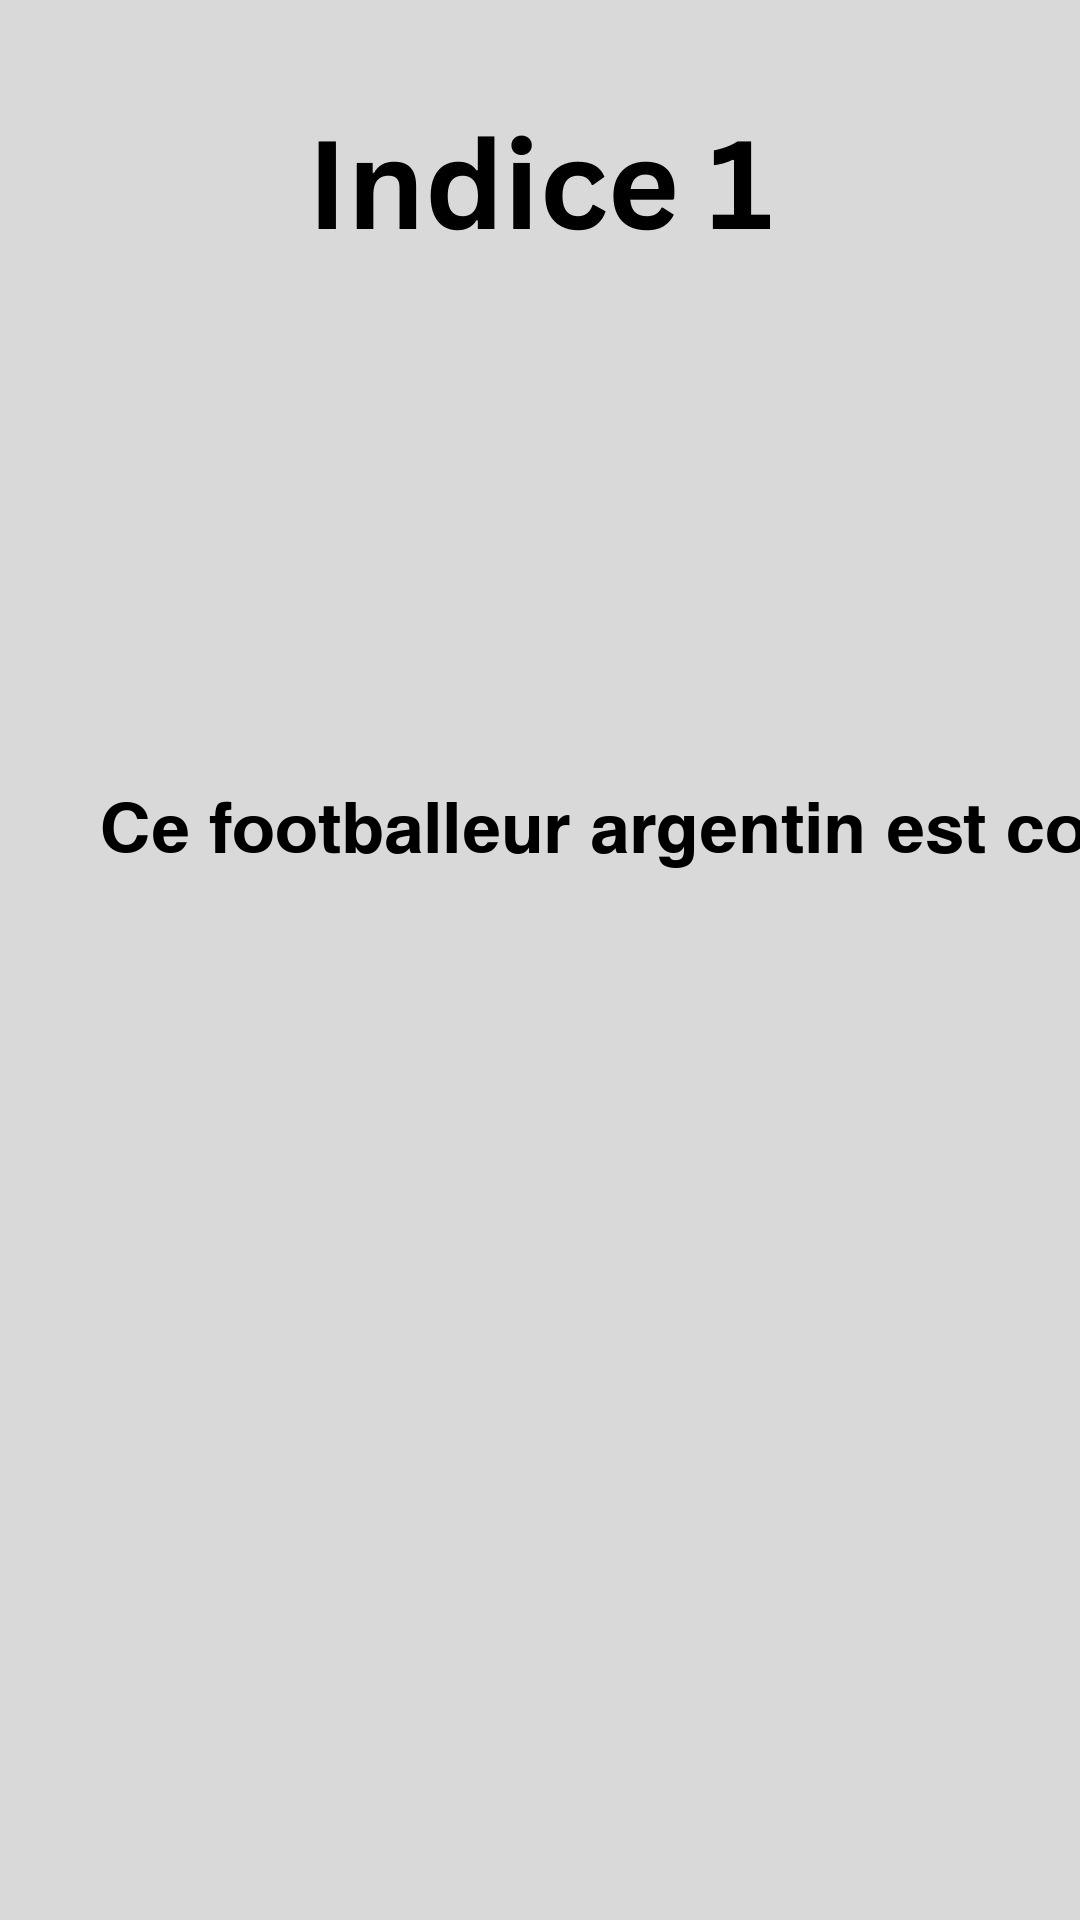
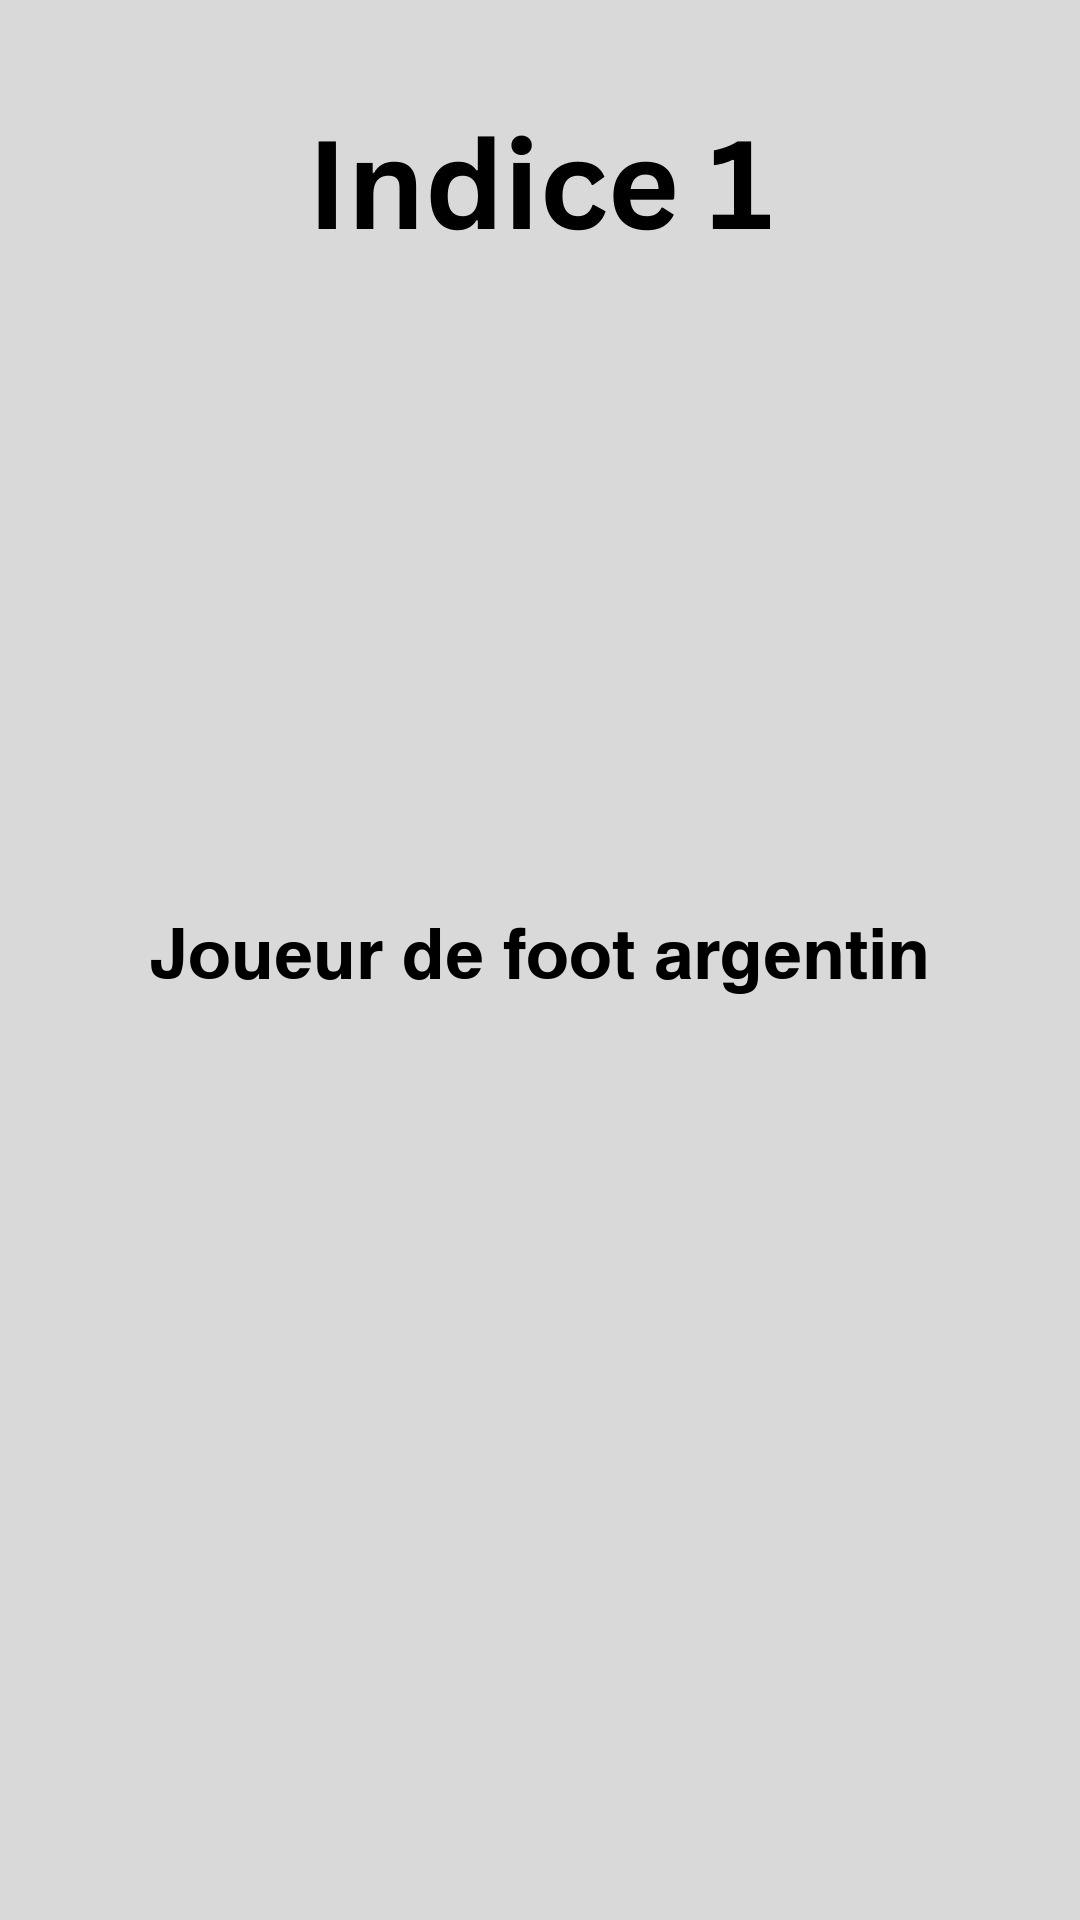
retour a la ligne

Changed region(s): [[0.0917, 0.4062, 1.0, 0.5312]]

diff --git a/api.py b/api.py
@@ -14,6 +14,43 @@ model = "open-mistral-7b"
 
 client = Mistral(api_key=api_key)
 
+def get_text_width(text, font):
+    bbox = font.getbbox(text)
+    return bbox[2] - bbox[0]
+
+def justify_text(text, font, max_width):
+    words = text.split()
+    lines = []
+    current_line = []
+    current_width = 0
+
+    for word in words:
+        word_width = get_text_width(word, font)
+        if current_width + word_width <= max_width:
+            current_line.append(word)
+            current_width += word_width + get_text_width(' ', font)
+        else:
+            lines.append(current_line)
+            current_line = [word]
+            current_width = word_width + get_text_width(' ', font)
+
+    if current_line:
+        lines.append(current_line)
+
+    justified_lines = []
+    for line in lines:
+        if len(line) == 1:
+            justified_lines.append(' '.join(line))
+        else:
+            total_width = sum(get_text_width(word, font) for word in line) + get_text_width(' ', font) * (len(line) - 1)
+            extra_space = (max_width - total_width) // (len(line) - 1)
+            justified_line = line[0]
+            for word in line[1:]:
+                justified_line += ' ' * (extra_space // get_text_width(' ', font)) + ' ' + word
+            justified_lines.append(justified_line)
+
+    return '\n'.join(justified_lines)
+
 def create_template_clues(content: ContentData):
     # Créer les images vierges
         # Ajouter les textes à l'image
@@ -26,8 +63,37 @@ def create_template_clues(content: ContentData):
       except IOError:
           font = ImageFont.load_default()
           print(IOError)
-      
-      draw.text(content.position, content.clue_text, font=font, fill=content.color,align=content.align)
+      # Diviser le texte en mots
+      words = content.clue_text.split()
+      lines = []
+      current_line = []
+      box_width, box_height = template.size
+      max_width = box_width * 0.9  # Laisser un peu de marge
+
+      for word in words:
+          test_line = ' '.join(current_line + [word])
+          line_width, _ = draw.textbbox((0, 0), test_line, font=font)[2:4]
+          if line_width > max_width:
+              lines.append(' '.join(current_line))
+              current_line = [word]
+          else:
+              current_line.append(word)
+      if current_line:
+          lines.append(' '.join(current_line))
+
+      # Calculer la taille de chaque ligne
+      line_heights = [draw.textbbox((0, 0), line, font=font)[3] - draw.textbbox((0, 0), line, font=font)[1] for line in lines]
+      total_height = sum(line_heights)
+
+      # Calculer la position centrale verticale
+      y_start = (box_height - total_height) // 2
+
+      # Ajouter chaque ligne à l'image
+      for i, line in enumerate(lines):
+          line_width = draw.textbbox((0, 0), line, font=font)[2] - draw.textbbox((0, 0), line, font=font)[0]
+          x = (box_width - line_width) // 2
+          y = y_start + sum(line_heights[:i])
+          draw.text((x, y), line, font=font, fill=content.color)
       template.save(f"Clue_{content.clue_number}_{content.language}.jpg")
 
 chat_response = client.chat.complete(
@@ -89,29 +155,29 @@ response_data = Response(clues=json_loads['clues'],name=json_loads['reponse'])
 
 
 for content in response_data.clues:
-  content_data = ContentData(clue_text=content["francais"], position=(100,800), font_size=70 , color=(0,0,0), align="center", fonts="./fonts/Sans.ttf",language="fr",clue_number=content["numero"])
+  content_data = ContentData(clue_text=content["francais"], position=(500,800), font_size=70 , color=(0,0,0), align="center", fonts="./fonts/Sans.ttf",language="fr",clue_number=content["numero"])
   create_template_clues(content_data)
 
 
-def create_instagram_story(template: List[TemplateData]):
-    # Créer les images vierges
-    for image in template:
-        new_image = Image.new('RGB', (1080, 1920), color=(217, 217, 217))
-        draw = ImageDraw.Draw(new_image)
-        # Ajouter les textes à l'image
-        for text in image.content:
-            try:
-                if(text.image):
-                    foreground_image = Image.open(text.image)
-                    foreground_image = foreground_image.resize((150, 150))  # Redimensionner si nécessaire    
-                    position = (300, 200)
-                font = ImageFont.truetype(font = text.fonts, size=text.font_size)
-            except IOError:
-                font = ImageFont.load_default()
-                print(IOError)
-            draw.text(text.position, text.clue_text, font=font, fill=text.color,align=text.align)
-    # Enregistrer l'image
-        new_image.save(image.path)
+# def create_instagram_story(template: List[TemplateData]):
+#     # Créer les images vierges
+#     for image in template:
+#         new_image = Image.new('RGB', (1080, 1920), color=(217, 217, 217))
+#         draw = ImageDraw.Draw(new_image)
+#         # Ajouter les textes à l'image
+#         for text in image.content:
+#             try:
+#                 if(text.image):
+#                     foreground_image = Image.open(text.image)
+#                     foreground_image = foreground_image.resize((150, 150))  # Redimensionner si nécessaire    
+#                     position = (300, 200)
+#                 font = ImageFont.truetype(font = text.fonts, size=text.font_size)
+#             except IOError:
+#                 font = ImageFont.load_default()
+#                 print(IOError)
+#             draw.text(text.position, text.clue_text, font=font, fill=text.color,align=text.align)
+#     # Enregistrer l'image
+#         new_image.save(image.path)
 
 
     

diff --git a/tempCodeRunnerFile.py b/tempCodeRunnerFile.py
@@ -1,0 +1,3 @@
+for content in response_data.clues:
+  content_data = ContentData(clue_text=content["francais"], position=(100,800), font_size=70 , color=(0,0,0), align="center", fonts="./fonts/Sans.ttf",language="fr",clue_number=content["numero"])
+  create_template_clues(content_data)
